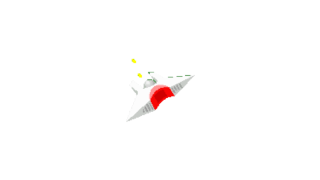
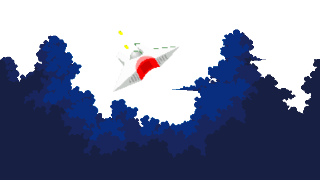
refactor: jogo agora em en-us

diff --git a/src/main.c b/src/main.c
@@ -11,7 +11,7 @@ int main(void) {
 
     /* Defines do tamanho da historia do jogo */
     #define TEXT_LEVEL01_SIZE 17
-    #define TEXT_LEVEL02_SIZE 14
+    #define TEXT_LEVEL02_SIZE 16
     #define TEXT_END_SIZE 14
 
     /* Variaveis do projeto */
@@ -38,54 +38,56 @@ int main(void) {
 
     const char *text_level01[TEXT_LEVEL01_SIZE] = {
         "Level 01",
-        "PROCURANDO CARANGUEIJOS",
+        "LOOKING FOR CRABS",
         "",
-        "A EPF (ELITE PENGUIM FORCE) FOI ATACADA",
-        "E DENTRE TODOS OS AGENTES SOBROU APENAS VOCE",
-        "PARA IR ATRAS DOS CULPADOS",
+        "THE EPF (ELITE PENGUIN FORCE) WAS ATTACKED",
+        "AND AMONG ALL THE AGENTS, ONLY YOU REMAINED",
+        "TO GO AFTER THE GUILTY ONES",
         "",
-        "AO ENTRAR NA AGENCIA DA EPF QUE FOI ATACADA",
-        "VOCE VIU UM CARANGUEIJO VERMELHO FUGINDO",
-        "E LOGO VOCE PERCEBEU QUE ERA KLUTZY",
+        "WHEN YOU ENTERED THE EPF AGENCY THAT WAS ATTACKED",
+        "YOU SAW A RED CRAB RUNNING AWAY",
+        "AND SOON YOU REALIZED IT WAS KLUTZY",
         "",
-        "VOCE SEGUIU ELE",
-        "MAS ELE ESTAVA MUITO RAPIDO NA SUA FUGA",
-        "POR ISSO VOCE PEGOU A SUA ANTIGA COMPANHEIRA",
-        "A NAVE DO ASTRO BARRIER",
+        "YOU FOLLOWED HIM",
+        "BUT HE WAS ESCAPING TOO FAST",
+        "THAT'S WHY YOU TOOK YOUR OLD PARTNER",
+        "THE ASTRO BARRIER SHIP",
         "",
-        "MISSAO: CAPTURE E INTERROGUE KLUTZY, O CARANGUEIJO"
+        "MISSION: CAPTURE AND INTERROGATE KLUTZY, THE CRAB"
     };
     const char *text_level02[TEXT_LEVEL02_SIZE] = {
         "Level 02",
-        "CAPTURANDO HERBERT",
+        "CAPTURING HERBERT",
         "",
-        "INTERROGANDO O CARANGUEIJO, ELE FALOU PARA VOCE",
-        "\"NAO FUI EU. FOI O HERBERT!\"",
-        "\"EU ESTAVA APENAS TENTANDO ENCONTRAR ELE NA EPF\"",
-        "\"MAS PARECE QUE ELE JA TINHA FUGIDO A HORAS\"",
+        "INTERROGATING THE CRAB, HE TOLD YOU",
+        "\"IT WASN'T ME. IT WAS HERBERT!\"",
+        "\"I WAS JUST TRYING TO FIND HIM AT THE EPF\"",
+        "\"BUT IT SEEMS LIKE HE HAD ALREADY ESCAPED\"",
+        "\"A FEW HOURS AGO\"",
         "",
-        "\"MAS EU ACHO QUE SEI ONDE ELE ESTA!\"",
-        "\"ELE PARECE ESTAR NOS CEUS DO POLO NORTE\"",
+        "\"BUT I THINK I KNOW WHERE HE IS!\"",
+        "\"HE SEEMS TO BE IN THE SKIES OF THE NORTH POLE\"",
         "",
-        "\"NEM QUERO PENSAR O FRIO QUE DEVE ESTAR FAZENDO LA!\"",
+        "\"I DON'T EVEN WANT TO THINK ABOUT\"",
+        "\"HOW COLD IT MUST BE THERE!\"",
         "",
-        "MISSAO: CAPTURE E PRENDA HERBERT, O URSO"
+        "MISSION: CAPTURE AND ARREST HERBERT, THE BEAR"
     };
     const char *text_end[TEXT_END_SIZE] = {
-        "PARABENS",
-        "VOCE FINALIZOU SNOW IMPACT",
+        "CONGRATULATIONS",
+        "YOU HAVE FINISHED SNOW IMPACT",
         "",
-        "COM HERBERT CAPTURADO.",
-        "A PAZ VOLTOU PARA A ILHA PENGUIM",
-        "A EPF COLOCOU HERBERT NA PRISAO",
+        "WITH HERBERT CAPTURED.",
+        "PEACE HAS RETURNED TO PENGUIN ISLAND",
+        "THE EPF HAS PUT HERBERT IN PRISON",
         "",
-        "E VOCE?",
-        "BOM, VOCE ESTA APROVEITANDO SUAS FERIAS",
-        "DEPOIS DE SALVAR O DIA, VOCE MERECE UM DESCANSO",
+        "AND YOU?",
+        "WELL, YOU'RE ENJOYING YOUR VACATION",
+        "AFTER SAVING THE DAY, YOU DESERVE A REST",
         "",
-        "OBRIGADO VOCE POR JOGAR",
-        "E SIGA PINGUINANDO...",
-        "ATE BREVE, JOGADOR."
+        "THANK YOU FOR PLAYING",
+        "AND KEEP PENGUINING...",
+        "SEE YOU SOON, PLAYER."
     };
 
     /* Inicializaoes do projeto */
@@ -154,7 +156,7 @@ int main(void) {
                     draw_status(player, font, debug, actualScreen, boss);
 
                     if (check_boss_death(boss, &fade, font, 
-                                        "Klutzy derrotado. Prosseguindo.", 
+                                        "Klutzy defeated. Moving on.", 
                                         &player)) {
                         switch_level(3, &player, bg, &actualScreen, 
                                     &boss, 
@@ -203,7 +205,7 @@ int main(void) {
                     draw_status(player, font, debug, actualScreen, boss);
 
                     if (check_boss_death(boss, &fade, font, 
-                                        "HERBERT FOI DERROTADO!!!", 
+                                        "HERBERT WAS DEFEATED!!!", 
                                         &player)) {
                         switch_level(5, &player, bg, &actualScreen, 
                                     &boss, 

diff --git a/src/levels.c b/src/levels.c
@@ -17,10 +17,10 @@ void init_background(Background *b) {
     b[0].velX = 0.1;
 
     b[1].image = init_bitmap("assets/background/menu-2.png");
-    b[1].velX = 0.5;
+    b[1].velX = 0.25;
 
     b[2].image = init_bitmap("assets/background/menu-3.png");
-    b[2].velX = 0.15;
+    b[2].velX = 0.5;
 
     for(size_t i = 0; i < PARALLAX_SIZE; i++) {
         b[i].height = BUFFER_H;
@@ -101,14 +101,14 @@ void draw_select_level( ALLEGRO_FONT* font, ALLEGRO_FONT* title,
                                     (float)0.015, 
                                     (float)0.015, 0.25));
 
-    al_draw_text(title, al_map_rgb(255, 200, 255), 
+    al_draw_text(title, al_map_rgb(150, 230, 255), 
                 (BUFFER_W >> 1), 30, 
                 ALLEGRO_ALIGN_CENTER,
                 "SNOW IMPACT");
-    al_draw_text(font, al_map_rgb(255, 235, 255), 
+    al_draw_text(font, al_map_rgb(150, 200, 255), 
                 (BUFFER_W >> 1), (57), 
                 ALLEGRO_ALIGN_CENTER,
-                "INSPIRADO EM SPACE IMPACT E CLUB PENGUIN");
+                "INSPIRED BY SPACE IMPACT AND CLUB PENGUIN");
 
     // Botao de level 01
     if (choose == 0) actual = 255;
@@ -120,7 +120,7 @@ void draw_select_level( ALLEGRO_FONT* font, ALLEGRO_FONT* title,
     al_draw_text(font, al_map_rgb(actual, actual, actual), 
                 (BUFFER_W >> 1), (BUFFER_H >> 1), 
                 ALLEGRO_ALIGN_CENTER,
-                "PROCURANDO CARANGUEIJOS");
+                "LOOKING FOR CRABS");
 
     // Botao de level 02
     if (choose == 1) actual = 255;
@@ -132,7 +132,7 @@ void draw_select_level( ALLEGRO_FONT* font, ALLEGRO_FONT* title,
     al_draw_text(font, al_map_rgb(actual, actual, actual), 
                 (BUFFER_W >> 1), ((BUFFER_H >> 1) + 25), 
                 ALLEGRO_ALIGN_CENTER,
-                "CAPTURANDO HERBERT");
+                "CAPTURING HERBERT");
 
     // Botao de sair
     if (choose == 2) actual = 255;
@@ -140,14 +140,14 @@ void draw_select_level( ALLEGRO_FONT* font, ALLEGRO_FONT* title,
     al_draw_text(font, al_map_rgb(actual, actual, actual), 
                 (BUFFER_W >> 1), ((BUFFER_H >> 1) + 40), 
                 ALLEGRO_ALIGN_CENTER,
-                "SAIR");
+                "EXIT");
 
     // Creditos
     al_draw_text(font, al_map_rgb(255, 255, 255), 
                 (MARGIN_BORDER), 
                 (BUFFER_H - MARGIN_BORDER - FONT_SIZE), 
                 ALLEGRO_ALIGN_LEFT,
-                "Feito por tuildes");
+                "Made by @tuildes");
 }
 
 void destroy_select_level(Background *b) {
@@ -324,32 +324,32 @@ void draw_stats_level(ALLEGRO_FONT* font, ALLEGRO_FONT* title,
     al_draw_text(font, al_map_rgb(255, 235, 255), 
                 (BUFFER_W >> 1), (57), 
                 ALLEGRO_ALIGN_CENTER,
-                "INSPIRADO EM SPACE IMPACT E CLUB PENGUIN");
+                "INSPIRED BY SPACE IMPACT AND CLUB PENGUIN");
 
     al_draw_textf(font, al_map_rgb(255, 255, 255), 
                 (BUFFER_W >> 1), (BUFFER_H >> 1), 
                 ALLEGRO_ALIGN_CENTER,
-                "Tempo: %.0lfs", floor(player.time));
+                "Time: %.0lfs", floor(player.time));
     
     al_draw_textf(font, al_map_rgb(255, 255, 255), 
                 (BUFFER_W >> 1), ((BUFFER_H >> 1) + 10), 
                 ALLEGRO_ALIGN_CENTER,
-                "Inimigos derrotados: %d (+ 2 chefes)", player.kills);
+                "Enemies defeated: %d (+ 2 bosses)", player.kills);
 
     al_draw_textf(font, al_map_rgb(255, 255, 255), 
                 (BUFFER_W >> 1), ((BUFFER_H >> 1) + 20), 
                 ALLEGRO_ALIGN_CENTER,
-                "Tiros dados: %d", player.bullets);
+                "Shots taken: %d", player.bullets);
 
     al_draw_textf(font, al_map_rgb(255, 255, 255), 
                 (BUFFER_W >> 1), ((BUFFER_H >> 1) + 30), 
                 ALLEGRO_ALIGN_CENTER,
-                "Pontos: %d", (5000 - (int)(player.time) + (5 * player.kills)));
+                "Points: %d", (5000 - (int)(player.time) + (5 * player.kills)));
 
     // Creditos
     al_draw_text(font, al_map_rgb(255, 255, 255), 
                 (MARGIN_BORDER), 
                 (BUFFER_H - MARGIN_BORDER - FONT_SIZE), 
                 ALLEGRO_ALIGN_LEFT,
-                "Feito por tuildes");
+                "Made by @tuildes");
 }

diff --git a/src/screen.c b/src/screen.c
@@ -68,14 +68,14 @@ void draw_status(Player player, ALLEGRO_FONT* font, bool debug,
                 (MARGIN_BORDER), 
                 (MARGIN_BORDER), 
                 ALLEGRO_ALIGN_LEFT,
-                "Tempo: %.0lfs", floor(player.time));
+                "Time: %.0lfs", floor(player.time));
 
     // Vidas do jogador
     al_draw_textf(font, al_map_rgb(255, 255, 255), 
                 (MARGIN_BORDER), 
                 (MARGIN_BORDER + FONT_SIZE + 2), 
                 ALLEGRO_ALIGN_LEFT,
-                "Vidas: %1hd", player.lifes);
+                "Lifes: %1hd", player.lifes);
 
     // Fala do personagem
     if(actualScreen == 2) {
@@ -84,20 +84,20 @@ void draw_status(Player player, ALLEGRO_FONT* font, bool debug,
                     (MARGIN_BORDER), 
                     (BUFFER_H - MARGIN_BORDER - FONT_SIZE), 
                     ALLEGRO_ALIGN_LEFT,
-                    "[NAVE]: KLUTZY FAZENDO ROBOS? HORA DE DESTRUIR.");
+                    "[SHIP]: KLUTZY MAKING ROBOTS? TIME TO DESTROY");
         } else if ((mult > 1.8) && (mult < 2)) {
             al_draw_text(font, al_map_rgb(255, 255, 255), 
                                 (MARGIN_BORDER), 
                                 (BUFFER_H - MARGIN_BORDER - FONT_SIZE), 
                                 ALLEGRO_ALIGN_LEFT,
-                                "[NAVE]: KLUTZY ESTA CHEGANDO!");
+                                "[SHIP]: KLUTZY IS COMING!");
         } else if (boss.actualHp == 0) {
              al_draw_text(font, al_map_rgb(255, 255, 255), 
                                 (MARGIN_BORDER), 
                                 (BUFFER_H - MARGIN_BORDER - FONT_SIZE), 
                                 ALLEGRO_ALIGN_LEFT,
                                 "[KLUTZY]: Clickity click click"
-                                " (voce me pegou)");
+                                " (you got me)");
         }
 
     // Fala personagem (fase 02)
@@ -107,20 +107,20 @@ void draw_status(Player player, ALLEGRO_FONT* font, bool debug,
                     (MARGIN_BORDER), 
                     (BUFFER_H - MARGIN_BORDER - FONT_SIZE), 
                     ALLEGRO_ALIGN_LEFT,
-                    "[NAVE]: CAPANGAS DA NEVE? HORA DE ATIRAR!");
+                    "[SHIP]: SNOW THUGS? TIME TO SHOOT!");
         } else if ((mult > 1.8) && (mult < 2)) {
             al_draw_text(font, al_map_rgb(255, 255, 255), 
                                 (MARGIN_BORDER), 
                                 (BUFFER_H - MARGIN_BORDER - FONT_SIZE), 
                                 ALLEGRO_ALIGN_LEFT,
-                                "[NAVE]: HEBERT ESTA CHEGANDO!");
+                                "[SHIP]: HEBERT IS COMING!");
         } else if (boss.actualHp == 0) {
              al_draw_text(font, al_map_rgb(255, 255, 255), 
                                 (MARGIN_BORDER), 
                                 (BUFFER_H - MARGIN_BORDER - FONT_SIZE), 
                                 ALLEGRO_ALIGN_LEFT,
-                                "[HERBERT]: VOCE EH MUITO FORTE."
-                                "CONSEGUIU ME CAPTURAR");
+                                "[HERBERT]: YOU ARE VERY STRONG."
+                                "MANAGED TO CAPTURE ME");
         }
     }
 
@@ -147,10 +147,10 @@ void draw_pause(ALLEGRO_FONT* font) {
     al_draw_text(font, al_map_rgb(255, 255, 255), 
             (BUFFER_W >> 1), ((BUFFER_H >> 1) - 5), 
             ALLEGRO_ALIGN_CENTER,
-            "SNOW IMPACT PAUSADO!");
+            "SNOW IMPACT PAUSED!");
 
     al_draw_text(font, al_map_rgb(255, 255, 255), 
             (BUFFER_W >> 1), ((BUFFER_H >> 1) + FONT_SIZE), 
             ALLEGRO_ALIGN_CENTER,
-            "Clique P ou ESC para retomar partida");
+            "Press P or ESC to resume play");
 }

diff --git a/src/init.c b/src/init.c
@@ -4,24 +4,24 @@ void init_all() {
     srand(time(NULL)); // Seed aleatoria
 
     initialize_or_exit(al_init(), "Allegro");
-    initialize_or_exit(al_install_keyboard(), "teclado");
-    initialize_or_exit(al_init_font_addon(), "addon de font");
-    initialize_or_exit(al_init_ttf_addon(), "addon de ttf");
-    initialize_or_exit(al_init_image_addon(), "addon de imagens");
+    initialize_or_exit(al_install_keyboard(), "keyboard");
+    initialize_or_exit(al_init_font_addon(), "font addon");
+    initialize_or_exit(al_init_ttf_addon(), "ttf addon");
+    initialize_or_exit(al_init_image_addon(), "image addon");
     initialize_or_exit(al_init_primitives_addon(), "primitives");
 }
 
 void initialize_or_exit(bool fc, const char *n) {
     if(fc) return;
 
-    printf("Não foi possivel inicializar %s.\n", n);
+    printf("[ERROR] Unable to initialize %s.\n", n);
     exit(1);
 }
 
 ALLEGRO_BITMAP* init_bitmap(const char *local) {
     ALLEGRO_BITMAP* bm = al_load_bitmap(local);
     if(!bm) {
-        printf("Não foi possível inicializar imagem: (%s)\n", local);
+        printf("[ERROR] Unable to initialize image: (%s)\n", local);
         exit(1);
     }
     return bm;
@@ -30,7 +30,7 @@ ALLEGRO_BITMAP* init_bitmap(const char *local) {
 ALLEGRO_FONT* init_font(const char *local, int fontSize) {
     ALLEGRO_FONT* f = al_load_ttf_font(local, fontSize, 0);
     if(!f) {
-        printf("Não foi possível inicializar fonte: (%s)\n", local);
+        printf("[ERROR] Unable to initialize font: (%s)\n", local);
         exit(1);
     }
     return f;
@@ -39,7 +39,7 @@ ALLEGRO_FONT* init_font(const char *local, int fontSize) {
 ALLEGRO_TIMER* init_timer(float framerate, ALLEGRO_EVENT_QUEUE* queue) {
     ALLEGRO_TIMER* t = al_create_timer(1.0 / framerate);
     if(!t) {
-        printf("Não foi possível inicializar o timer\n");
+        printf("[ERROR] Unable to initialize timer\n");
         exit(1);
     }
 

diff --git a/src/boss.c b/src/boss.c
@@ -40,6 +40,9 @@ Boss init_boss(unsigned int type) {
         b.dy = 2;
         b.dx = 2;
 
+        if(rand() % 2) b.dy = -b.dy;
+        if(rand() % 2) b.dx = -b.dx;
+
         for(size_t i = 0; i < 3; i++) b.sprite[i] = init_bitmap(paths[(i + 3)]);
     }
 

diff --git a/src/keyboard.c b/src/keyboard.c
@@ -64,7 +64,7 @@ void keyboard_options(unsigned char *key, bool *pause, bool *debug,
     
             break;
         default:
-            printf("Tela nao encontrada!\n");
+            printf("[ERROR] Screen not found!\n");
             break;
     }
 }
